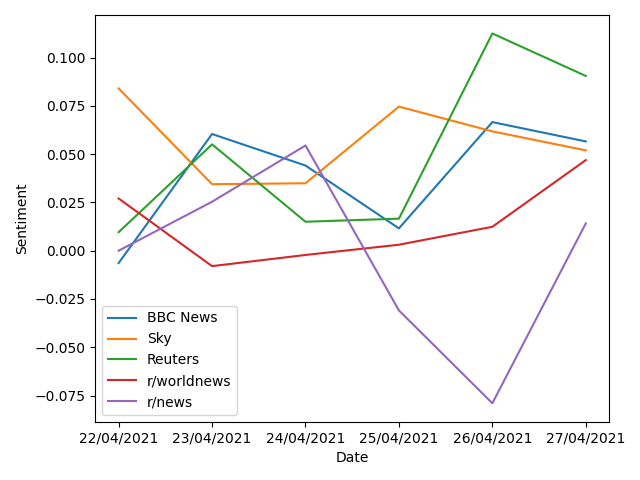
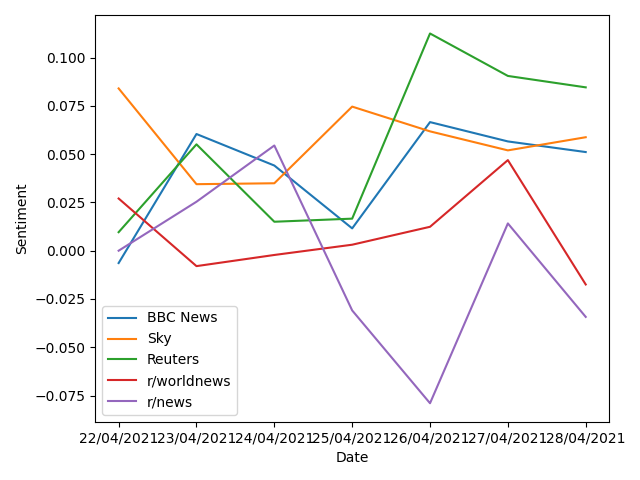
Automatic update (gitControl.py)

diff --git a/README.md b/README.md
@@ -3,7 +3,7 @@
 World news sentiment data, updated at 07:00 daily.
 
 **Started:** `22/04/2021`<br>
-**Updated:** `27/04/2021, 07:00:39`<br>
+**Updated:** `28/04/2021, 07:00:38`<br>
 **Sources:** `BBC News, Sky, Reuters, r/worldnews, r/news`
 
 <img src="https://user-images.githubusercontent.com/25552804/115932698-55adef00-a485-11eb-82bb-2265c0821ca0.png" width="20%" height="20%">

diff --git a/docs/index.md b/docs/index.md
@@ -3,7 +3,7 @@
 World news sentiment data, updated at 07:00 daily.
 
 **Started:** `22/04/2021`<br>
-**Updated:** `27/04/2021, 07:00:39`<br>
+**Updated:** `28/04/2021, 07:00:38`<br>
 **Sources:** `BBC News, Sky, Reuters, r/worldnews, r/news`
 
 <img src="https://user-images.githubusercontent.com/25552804/115932698-55adef00-a485-11eb-82bb-2265c0821ca0.png" width="20%" height="20%">
